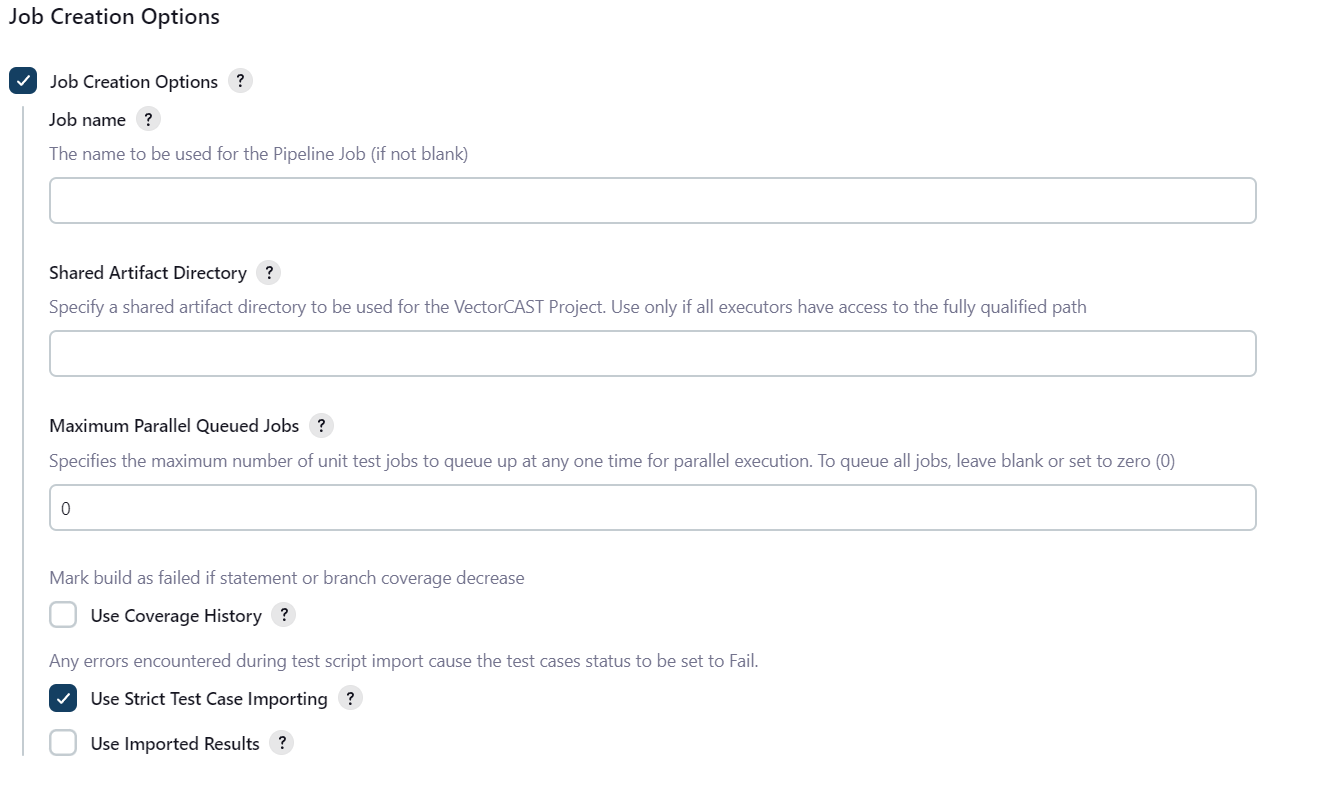
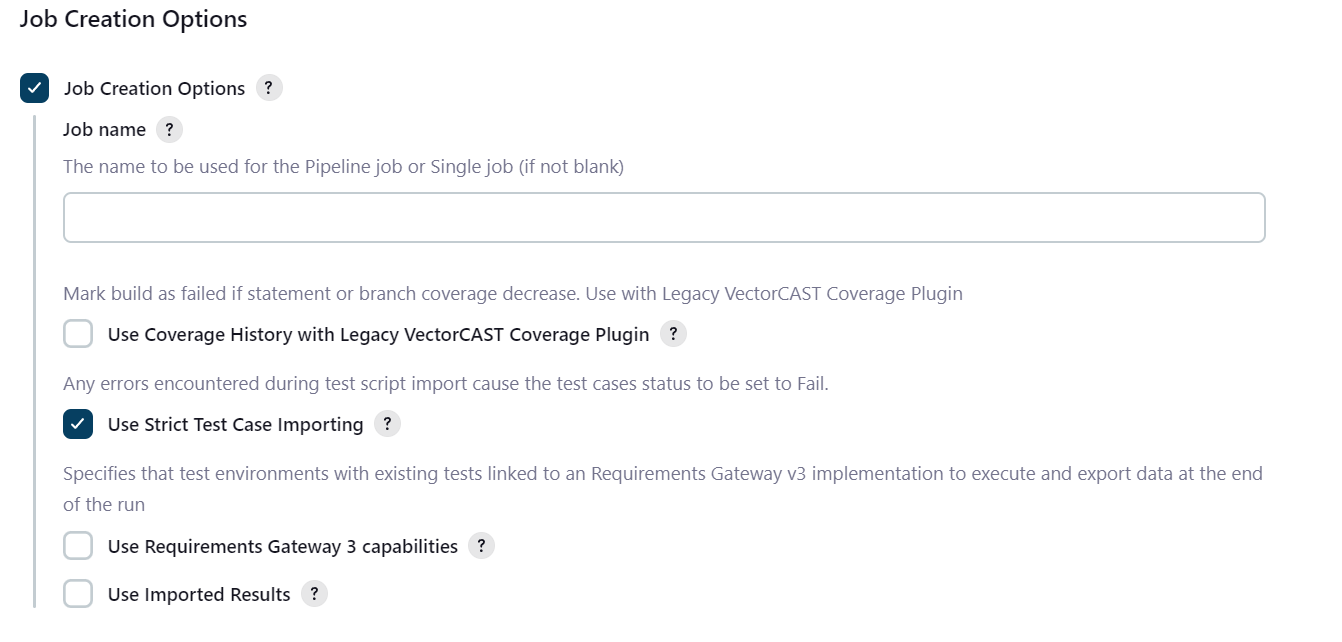
Documentation for new features

Changed region(s): [[0.0, 0.0, 0.9332, 0.9657]]

diff --git a/src/main/webapp/help-optuseVectorCastCoveragePlugin.html b/src/main/webapp/help-optuseVectorCastCoveragePlugin.html
@@ -1,56 +1,8 @@
- <!DOCTYPE html>
+<!DOCTYPE html>
 <!--
 The MIT License
 
 Copyright 2016 Vector Software.
-
-Permission is hereby granted, free of charge, to any person obtaining a copy
-of this software and associated documentation files (the "Software"), to deal
-in the Software without restriction, including without limitation the rights
-to use, copy, modify, merge, publish, distribute, sublicense, and/or sell
-copies of the Software, and to permit persons to whom the Software is
-furnished to do so, subject to the following conditions:
-
-The above copyright notice and this permission notice shall be included in
-all copies or substantial portions of the Software.
-
-THE SOFTWARE IS PROVIDED "AS IS", WITHOUT WARRANTY OF ANY KIND, EXPRESS OR
-IMPLIED, INCLUDING BUT NOT LIMITED TO THE WARRANTIES OF MERCHANTABILITY,
-FITNESS FOR A PARTICULAR PURPOSE AND NONINFRINGEMENT. IN NO EVENT SHALL THE
-AUTHORS OR COPYRIGHT HOLDERS BE LIABLE FOR ANY CLAIM, DAMAGES OR OTHER
-LIABILITY, WHETHER IN AN ACTION OF CONTRACT, TORT OR OTHERWISE, ARISING FROM,
-OUT OF OR IN CONNECTION WITH THE SOFTWARE OR THE USE OR OTHER DEALINGS IN
-THE SOFTWARE.
--->
- !DOCTYPE html>
-<!--
-The MIT License
-
-Copyright 2024 Vector Software.
-
-Permission is hereby granted, free of charge, to any person obtaining a copy
-of this software and associated documentation files (the "Software"), to deal
-in the Software without restriction, including without limitation the rights
-to use, copy, modify, merge, publish, distribute, sublicense, and/or sell
-copies of the Software, and to permit persons to whom the Software is
-furnished to do so, subject to the following conditions:
-
-The above copyright notice and this permission notice shall be included in
-all copies or substantial portions of the Software.
-
-THE SOFTWARE IS PROVIDED "AS IS", WITHOUT WARRANTY OF ANY KIND, EXPRESS OR
-IMPLIED, INCLUDING BUT NOT LIMITED TO THE WARRANTIES OF MERCHANTABILITY,
-FITNESS FOR A PARTICULAR PURPOSE AND NONINFRINGEMENT. IN NO EVENT SHALL THE
-AUTHORS OR COPYRIGHT HOLDERS BE LIABLE FOR ANY CLAIM, DAMAGES OR OTHER
-LIABILITY, WHETHER IN AN ACTION OF CONTRACT, TORT OR OTHERWISE, ARISING FROM,
-OUT OF OR IN CONNECTION WITH THE SOFTWARE OR THE USE OR OTHER DEALINGS IN
-THE SOFTWARE.
--->
- <!DOCTYPE html>
-<!--
-The MIT License
-
-Copyright 2024 Vector Software.
 
 Permission is hereby granted, free of charge, to any person obtaining a copy
 of this software and associated documentation files (the "Software"), to deal

diff --git a/src/main/resources/scripts/generate_xml.py b/src/main/resources/scripts/generate_xml.py
@@ -1431,7 +1431,7 @@ def __generate_xml(xml_file, envPath, env, xmlCoverReportName, xmlTestingReportN
         xml_file.generate_unit()
         teePrint.teePrint ("\nJunit plugin for Jenkins compatible file generated: " + xmlTestingReportName)
         xml_file.generate_cover()
-        teePrint.teePrint ("\nVCC plugin for Jenkins compatible file generated: " + xmlCoverReportName)
+        teePrint.teePrint ("\nVCC plugin for Jenkins compatible file generated: " + xmlTestingReportName)
 
 if __name__ == '__main__':
 

diff --git a/README.md b/README.md
@@ -71,6 +71,55 @@ For Pipeline Jobs, the plugin processes the build log to determine which tests h
 
 ![](docs/images/test_results.png)
 
+## Coverage Diplay Selection
+
+The VectorCAST Execution Plugin is transitioning from using the older VectorCAST Coverage Plugin (Legacy Plugin) to the Jenkins Coverage Plugin.  Until that transition is complete, the use is offered a choice to decide which coverage display to use.
+
+![](docs/images/coverage_display_config.png)
+
+## Information about Jenkins Coverage Plugin
+The [Jenkins Coverage Plugin](https://plugins.jenkins.io/coverage) publishes a report of the code and mutation coverage in your build, so you can navigate to a summary report from the main build page. Additionally, the plugin gathers several metrics (lines of code, cyclomatic complexity, number of tests per class) and visualizes these results along with the coverage information.
+
+By using the Jenkins Coverage Plugin, users can also dive into the details:
+- Tree charts that show the distribution of the metrics by type (line, branch, complexity, tests, etc.)
+- Tabular listing of all files with their coverage, complexity and number of tests
+- Source code of the files with the coverage highlighted
+- Trend charts of the coverage over time
+
+![](docs/images/report_overview_screen.png)
+
+## Advanced Settings for Jenkins Coverage Plugin
+
+Two classes of settings can be accessed in the Jenkins Coverage Plugin
+- Quality Gates
+- Advanced Options
+
+To access the advanced settings:
+
+- Pipeline Jobs - You can access the Snippet Generator and use the configure a new pipeline snippet. Once you have the step configured, you can use the Generate Pipeline Script button, copy that snippet and replace the existing Coverage snippet in the job configuration. For more information regarding the advanced settings of the Jenkins Coverage Plugin, please refer to the documentation
+Settings to process VectorCAST Coverage Results:
+    - Sample Step: recordCoverage: Record code coverage results
+    - Code Coverage Tool > Coverage Parser: VectorCAST Coverage Results
+    - Code Coverage Tool > Report File Pattern: xml_data/cobertura/coverage_results*.html
+- Single Job - The setup for the Single Job will be one of the post-build steps.
+
+## Information about legacy VectorCAST Coverage Plugin
+The [VectorCAST Coverage Plugin](https://plugins.jenkins.io/vectorcast-coverage/) Processes code coverage metrics from for VectorCAST Projects
+This legacy plugin allows you to capture code coverage reports from VectorCAST Projects. Jenkins will generate the trend report of coverage. This plugin is used automatically with the VectorCAST Execution Plugin
+Coverage information from tests runs that has been converted to XML files is read and displayed by this plugin. 
+
+It shows coverage trends and allows drilling down to more detailed coverage information:
+
+- Tree charts that show the distribution of the metrics by type (line, branch, MC/DC Pairs, Function Coverage, etc.)
+- Tabular listing of all environments/files with their coverage and complexity
+-Trend charts of the coverage over time
+
+[!NOTE] Legacy Plugin Info
+This is a legacy plugin and will have no futher development beyond bug fixes and security updates
+
+![](docs/images/vcc_cov_report.png)
+
+
 ## Job Creation Options
 
 The user can customize additional parameters for job creation by selecting the **Job Creation Options**:
@@ -86,6 +135,8 @@ The **Shared Artifact Directory** option allows VectorCAST Project's build artif
 **Use Coverage History** marks build as failed if statement or branch coverage decrease by comparing the previous non-failing build's statement and branch coverage to the current build's statement and branch coverage. If either of the coverages have decreased the job will be marked as failed
 
 **Use Strict Test Case Importing** allows the job to mark individual test cases as failures if errors encountered during test script import.  This option enables strict testcase importing for the VectorCAST Project.  This option give a more reliable metrics for pass/fail test cases as without strict test case import, bad test cases are just ignored.  The default is enabled.
+
+**Use Requirements Gateway 3 capabilities** This option allows test environments with existing tests linked to an Requirements Gateway v3 implementation, that uses seperate .json files, to execute in parallel and export data at the end of the run.
 
 **Use Imported Results** allows jobs to previous test results as input for the current job execution phase.  This option allows VectorCAST Change Based Testing to have a known result to work from.  This option works in conjunction with **Use Change Based Testing**. The user can selected between internal imported results or external result files
 
@@ -175,7 +226,7 @@ VectorCAST/QA projects cannot use imported results for change based testing
 ### Disabled environments may add coverage metrics
 
 In rare cases, VectorCAST projects will have disabled environment with results stored before they were disabled.  In cases where the disabled environments share source file with enabled environments, this may lead addition coverage metrics.  It is recommended to clean the 
-environment before disabling.  This takes into account enviornments that are directly disabled or disabled at the Compiler or TestSuite Nodes.
+environment before disabling.  This takes into account enviornments that are directly disabled or disabled at the Compiler or TestSuite Nodes.  To avoid this, please clean environments before disabling them
 
 ## Change Log
 
@@ -188,7 +239,6 @@ environment before disabling.  This takes into account enviornments that are dir
 - Moved to Jenkins 2.440 and Java 11
 - Added BETA support for RGW3
 - Removed VectorCAST Project Environment report
-- Fixed remote copy of VCAST_VC_SCRIPTS
 
 ### Version 0.77 (21 Aug 2024)
 - Updated for findbugs to spotbugs
@@ -205,6 +255,7 @@ environment before disabling.  This takes into account enviornments that are dir
 - Fixed copy_build_dir.py ability to handle relative paths in the database.
 - Removed duplicate code/variables in NewPipeline.java.
 - Switched from CustomReport.report_from_api to api.report to solve corner case
+- Fixed remote copy of VCAST_VC_SCRIPTS
 
 ### Version 0.76 (19 Jan 2023)
 - Added support in VectorCAST version 2023 Projects for environments that are not in a group
